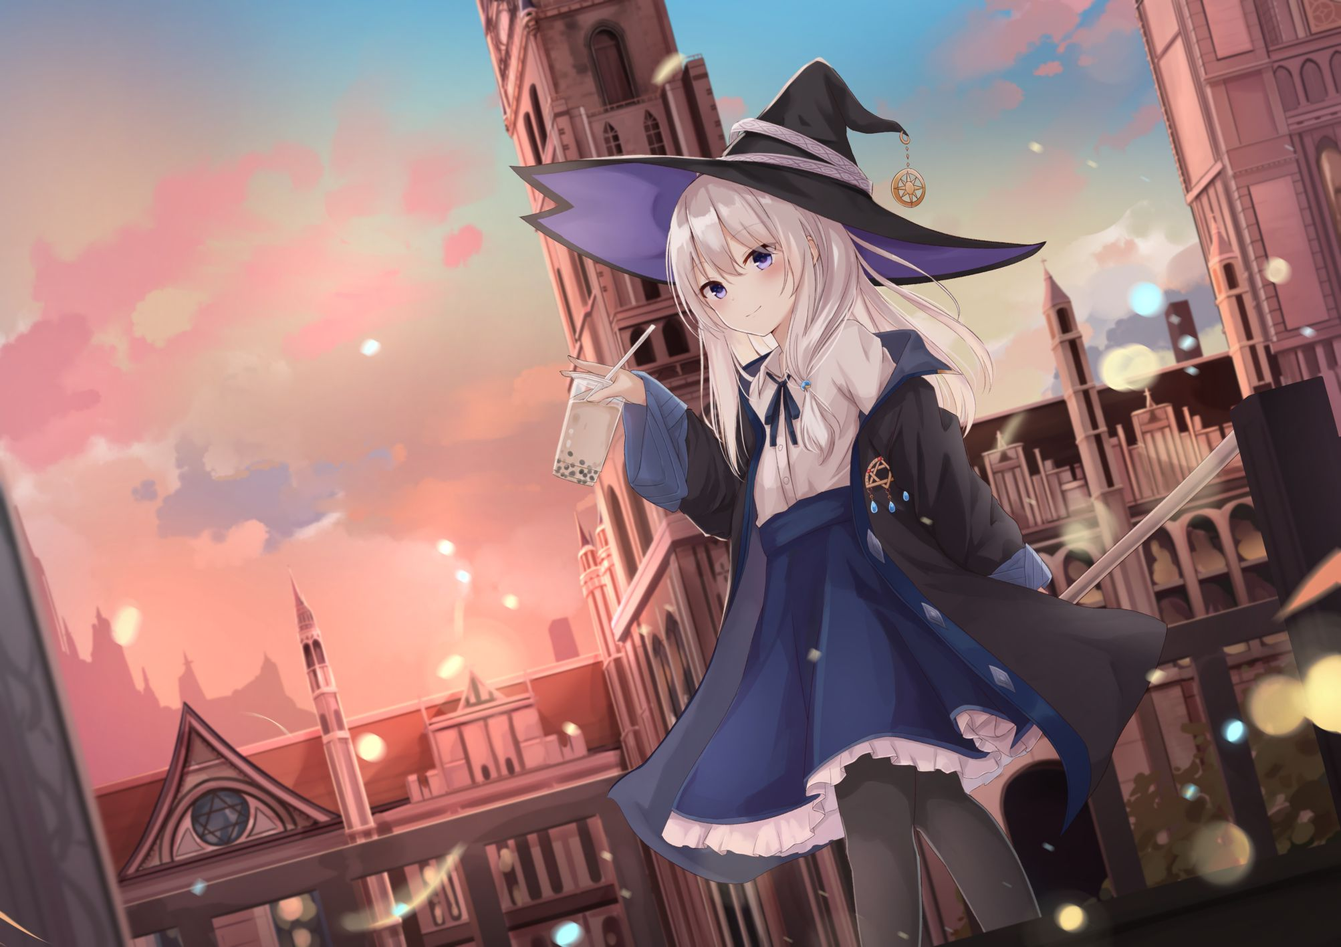
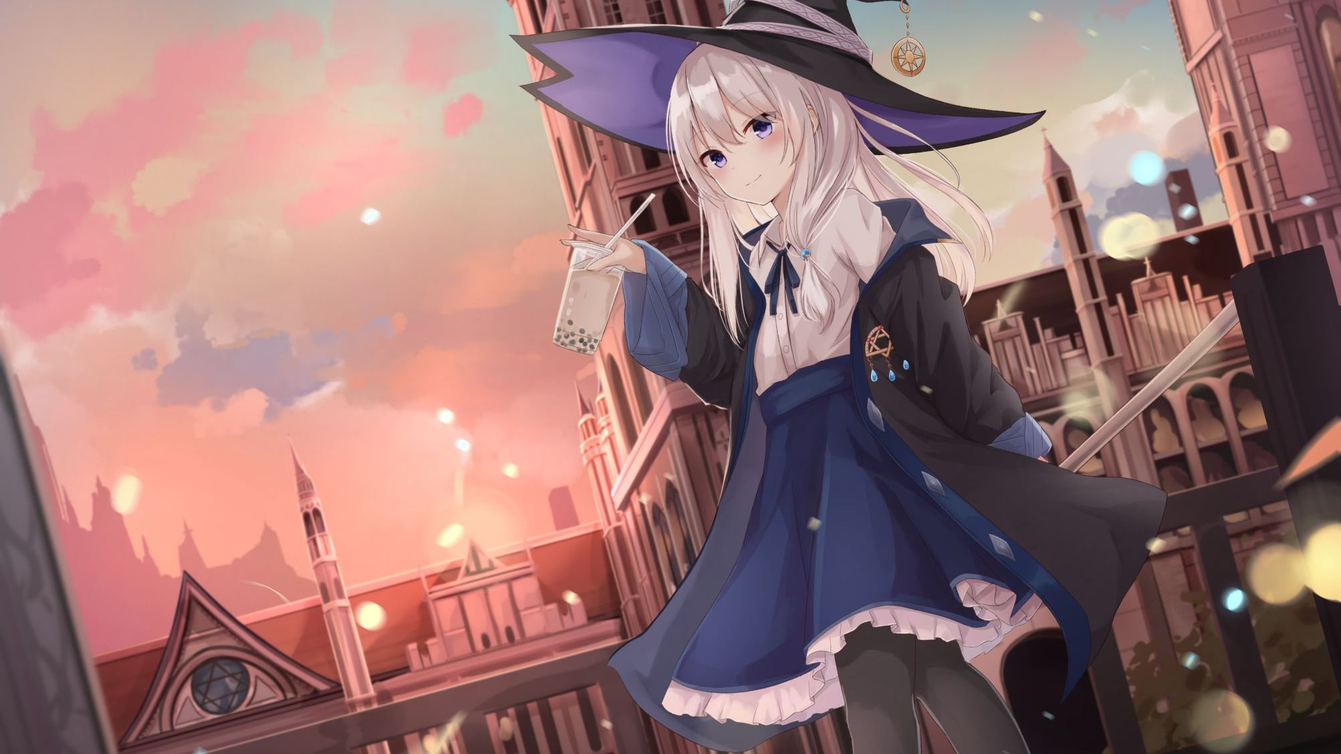
Site updated: 2021-08-10 15:26:23

diff --git a/2021/08/10/Hi/index.html b/2021/08/10/Hi/index.html
@@ -10,7 +10,7 @@
     <meta name="apple-mobile-web-app-status-bar-style" content="black-translucent">
     <meta name="google" content="notranslate" />
     <meta name="keywords" content="Fechin,"> 
-    <meta name="description" content="0.欢迎！欢迎来到Caviar的小窝～1.关于我1.1 工作还是个学生的说……会写点代码，会搞点编曲，会画点画1.2 平时都做些什么？上课(´･ω･`)1.3  坐标？南京 所以最近都出不了门鸭( ,"> 
+    <meta name="description" content="0.欢迎！欢迎来到Caviar的小站～1.关于我1.1 工作还是个学生的说……会写点代码，会搞点编曲，会画点画1.2 平时都做些什么？上课(´･ω･`)1.3  坐标？南京 所以最近都出不了门鸭( ,"> 
     <meta name="author" content="Caviar Iris"> 
     <link rel="alternative" href="atom.xml" title="Caviar&#39;s blog" type="application/atom+xml"> 
     <link rel="icon" href="/img/favicon.png"> 
@@ -54,7 +54,7 @@
 
         </div>
         <div class="content markdown">
-            <h1 id="0-欢迎！"><a href="#0-欢迎！" class="headerlink" title="0.欢迎！"></a>0.欢迎！</h1><h2 id="欢迎来到Caviar的小窝～"><a href="#欢迎来到Caviar的小窝～" class="headerlink" title="欢迎来到Caviar的小窝～"></a>欢迎来到Caviar的小窝～</h2><h1 id="1-关于我"><a href="#1-关于我" class="headerlink" title="1.关于我"></a>1.关于我</h1><h2 id="1-1-工作"><a href="#1-1-工作" class="headerlink" title="1.1 工作"></a>1.1 工作</h2><h3 id="还是个学生的说……会写点代码，会搞点编曲，会画点画"><a href="#还是个学生的说……会写点代码，会搞点编曲，会画点画" class="headerlink" title="还是个学生的说……会写点代码，会搞点编曲，会画点画"></a>还是个学生的说……会写点代码，会搞点编曲，会画点画</h3><h2 id="1-2-平时都做些什么？"><a href="#1-2-平时都做些什么？" class="headerlink" title="1.2 平时都做些什么？"></a>1.2 平时都做些什么？</h2><h3 id="上课-´･ω･"><a href="#上课-´･ω･" class="headerlink" title="上课(´･ω･`)"></a>上课(´･ω･`)</h3><h2 id="1-3-坐标？"><a href="#1-3-坐标？" class="headerlink" title="1.3  坐标？"></a>1.3  坐标？</h2><h3 id="南京-所以最近都出不了门鸭-´▽｀"><a href="#南京-所以最近都出不了门鸭-´▽｀" class="headerlink" title="南京 所以最近都出不了门鸭( ´▽｀)"></a>南京 所以最近都出不了门鸭( ´▽｀)</h3><h1 id="2-关于博客"><a href="#2-关于博客" class="headerlink" title="2.关于博客"></a>2.关于博客</h1><h2 id="2-1-都写些什么？"><a href="#2-1-都写些什么？" class="headerlink" title="2.1 都写些什么？"></a>2.1 都写些什么？</h2><h3 id="大概是笔记、算法、编曲之类的东西……哦对还有游戏-≧ω≦"><a href="#大概是笔记、算法、编曲之类的东西……哦对还有游戏-≧ω≦" class="headerlink" title="大概是笔记、算法、编曲之类的东西……哦对还有游戏(*≧ω≦)"></a>大概是笔记、算法、编曲之类的东西……哦对还有游戏(*≧ω≦)</h3><h2 id="2-2-这个博客是怎么搭起来的？"><a href="#2-2-这个博客是怎么搭起来的？" class="headerlink" title="2.2 这个博客是怎么搭起来的？"></a>2.2 这个博客是怎么搭起来的？</h2><h3 id="这个博客基于Github-Pages服务搭建，使用了Hexo核心，外面喷了一层diaspora的漆"><a href="#这个博客基于Github-Pages服务搭建，使用了Hexo核心，外面喷了一层diaspora的漆" class="headerlink" title="这个博客基于Github Pages服务搭建，使用了Hexo核心，外面喷了一层diaspora的漆"></a>这个博客基于Github Pages服务搭建，使用了Hexo核心，外面喷了一层diaspora的漆</h3><h3 id="具体过程会单独写一篇文章"><a href="#具体过程会单独写一篇文章" class="headerlink" title="具体过程会单独写一篇文章"></a>具体过程会单独写一篇文章</h3><h2 id="2-3-这个博客是什么样的性质？"><a href="#2-3-这个博客是什么样的性质？" class="headerlink" title="2.3 这个博客是什么样的性质？"></a>2.3 这个博客是什么样的性质？</h2><h3 id="主要是工具性的-偶尔也写一些别的乱七八糟的"><a href="#主要是工具性的-偶尔也写一些别的乱七八糟的" class="headerlink" title="主要是工具性的 偶尔也写一些别的乱七八糟的"></a>主要是工具性的 偶尔也写一些别的乱七八糟的</h3><h2 id="2-4-会有其他语言的版本吗？"><a href="#2-4-会有其他语言的版本吗？" class="headerlink" title="2.4 会有其他语言的版本吗？"></a>2.4 会有其他语言的版本吗？</h2><h3 id="或许会有带英语或者日语翻译的文章……"><a href="#或许会有带英语或者日语翻译的文章……" class="headerlink" title="或许会有带英语或者日语翻译的文章……"></a>或许会有带英语或者日语翻译的文章……</h3><h1 id="3-总之…"><a href="#3-总之…" class="headerlink" title="3.总之…"></a>3.总之…</h1><h2 id="欢迎！"><a href="#欢迎！" class="headerlink" title="欢迎！"></a>欢迎！</h2><h4 id="以上。"><a href="#以上。" class="headerlink" title="以上。"></a>以上。</h4><h4 id="Caviar-于-2021年8月10日"><a href="#Caviar-于-2021年8月10日" class="headerlink" title="Caviar 于 2021年8月10日"></a>Caviar 于 2021年8月10日</h4>
+            <h1 id="0-欢迎！"><a href="#0-欢迎！" class="headerlink" title="0.欢迎！"></a>0.欢迎！</h1><h2 id="欢迎来到Caviar的小站～"><a href="#欢迎来到Caviar的小站～" class="headerlink" title="欢迎来到Caviar的小站～"></a>欢迎来到Caviar的小站～</h2><h1 id="1-关于我"><a href="#1-关于我" class="headerlink" title="1.关于我"></a>1.关于我</h1><h2 id="1-1-工作"><a href="#1-1-工作" class="headerlink" title="1.1 工作"></a>1.1 工作</h2><h3 id="还是个学生的说……会写点代码，会搞点编曲，会画点画"><a href="#还是个学生的说……会写点代码，会搞点编曲，会画点画" class="headerlink" title="还是个学生的说……会写点代码，会搞点编曲，会画点画"></a>还是个学生的说……会写点代码，会搞点编曲，会画点画</h3><h2 id="1-2-平时都做些什么？"><a href="#1-2-平时都做些什么？" class="headerlink" title="1.2 平时都做些什么？"></a>1.2 平时都做些什么？</h2><h3 id="上课-´･ω･"><a href="#上课-´･ω･" class="headerlink" title="上课(´･ω･`)"></a>上课(´･ω･`)</h3><h2 id="1-3-坐标？"><a href="#1-3-坐标？" class="headerlink" title="1.3  坐标？"></a>1.3  坐标？</h2><h3 id="南京-所以最近都出不了门鸭-´▽｀"><a href="#南京-所以最近都出不了门鸭-´▽｀" class="headerlink" title="南京 所以最近都出不了门鸭( ´▽｀)"></a>南京 所以最近都出不了门鸭( ´▽｀)</h3><h1 id="2-关于博客"><a href="#2-关于博客" class="headerlink" title="2.关于博客"></a>2.关于博客</h1><h2 id="2-1-都写些什么？"><a href="#2-1-都写些什么？" class="headerlink" title="2.1 都写些什么？"></a>2.1 都写些什么？</h2><h3 id="大概是笔记、算法、编曲之类的东西……哦对还有游戏-≧ω≦"><a href="#大概是笔记、算法、编曲之类的东西……哦对还有游戏-≧ω≦" class="headerlink" title="大概是笔记、算法、编曲之类的东西……哦对还有游戏(*≧ω≦)"></a>大概是笔记、算法、编曲之类的东西……哦对还有游戏(*≧ω≦)</h3><h2 id="2-2-这个博客是怎么搭起来的？"><a href="#2-2-这个博客是怎么搭起来的？" class="headerlink" title="2.2 这个博客是怎么搭起来的？"></a>2.2 这个博客是怎么搭起来的？</h2><h3 id="这个博客基于Github-Pages服务搭建，使用了Hexo核心，外面喷了一层diaspora的漆"><a href="#这个博客基于Github-Pages服务搭建，使用了Hexo核心，外面喷了一层diaspora的漆" class="headerlink" title="这个博客基于Github Pages服务搭建，使用了Hexo核心，外面喷了一层diaspora的漆"></a>这个博客基于Github Pages服务搭建，使用了Hexo核心，外面喷了一层diaspora的漆</h3><h3 id="具体过程会单独写一篇文章"><a href="#具体过程会单独写一篇文章" class="headerlink" title="具体过程会单独写一篇文章"></a>具体过程会单独写一篇文章</h3><h2 id="2-3-这个博客是什么样的性质？"><a href="#2-3-这个博客是什么样的性质？" class="headerlink" title="2.3 这个博客是什么样的性质？"></a>2.3 这个博客是什么样的性质？</h2><h3 id="主要是工具性的-偶尔也写一些别的乱七八糟的"><a href="#主要是工具性的-偶尔也写一些别的乱七八糟的" class="headerlink" title="主要是工具性的 偶尔也写一些别的乱七八糟的"></a>主要是工具性的 偶尔也写一些别的乱七八糟的</h3><h2 id="2-4-会有其他语言的版本吗？"><a href="#2-4-会有其他语言的版本吗？" class="headerlink" title="2.4 会有其他语言的版本吗？"></a>2.4 会有其他语言的版本吗？</h2><h3 id="或许会有带英语或者日语翻译的文章……"><a href="#或许会有带英语或者日语翻译的文章……" class="headerlink" title="或许会有带英语或者日语翻译的文章……"></a>或许会有带英语或者日语翻译的文章……</h3><h1 id="3-总之…"><a href="#3-总之…" class="headerlink" title="3.总之…"></a>3.总之…</h1><h2 id="欢迎！"><a href="#欢迎！" class="headerlink" title="欢迎！"></a>欢迎！</h2><h4 id="以上。"><a href="#以上。" class="headerlink" title="以上。"></a>以上。</h4><h4 id="Caviar-于-2021年8月10日"><a href="#Caviar-于-2021年8月10日" class="headerlink" title="Caviar 于 2021年8月10日"></a>Caviar 于 2021年8月10日</h4>
             <!--[if lt IE 9]><script>document.createElement('audio');</script><![endif]-->
             <audio id="audio" loop="1" preload="auto" controls="controls" data-autoplay="false">
                 <source type="audio/mpeg" src="">
@@ -81,7 +81,7 @@
     </div>
     
         <div class='side'>
-			<ol class="toc"><li class="toc-item toc-level-1"><a class="toc-link" href="#0-%E6%AC%A2%E8%BF%8E%EF%BC%81"><span class="toc-number">1.</span> <span class="toc-text">0.欢迎！</span></a><ol class="toc-child"><li class="toc-item toc-level-2"><a class="toc-link" href="#%E6%AC%A2%E8%BF%8E%E6%9D%A5%E5%88%B0Caviar%E7%9A%84%E5%B0%8F%E7%AA%9D%EF%BD%9E"><span class="toc-number">1.1.</span> <span class="toc-text">欢迎来到Caviar的小窝～</span></a></li></ol></li><li class="toc-item toc-level-1"><a class="toc-link" href="#1-%E5%85%B3%E4%BA%8E%E6%88%91"><span class="toc-number">2.</span> <span class="toc-text">1.关于我</span></a><ol class="toc-child"><li class="toc-item toc-level-2"><a class="toc-link" href="#1-1-%E5%B7%A5%E4%BD%9C"><span class="toc-number">2.1.</span> <span class="toc-text">1.1 工作</span></a><ol class="toc-child"><li class="toc-item toc-level-3"><a class="toc-link" href="#%E8%BF%98%E6%98%AF%E4%B8%AA%E5%AD%A6%E7%94%9F%E7%9A%84%E8%AF%B4%E2%80%A6%E2%80%A6%E4%BC%9A%E5%86%99%E7%82%B9%E4%BB%A3%E7%A0%81%EF%BC%8C%E4%BC%9A%E6%90%9E%E7%82%B9%E7%BC%96%E6%9B%B2%EF%BC%8C%E4%BC%9A%E7%94%BB%E7%82%B9%E7%94%BB"><span class="toc-number">2.1.1.</span> <span class="toc-text">还是个学生的说……会写点代码，会搞点编曲，会画点画</span></a></li></ol></li><li class="toc-item toc-level-2"><a class="toc-link" href="#1-2-%E5%B9%B3%E6%97%B6%E9%83%BD%E5%81%9A%E4%BA%9B%E4%BB%80%E4%B9%88%EF%BC%9F"><span class="toc-number">2.2.</span> <span class="toc-text">1.2 平时都做些什么？</span></a><ol class="toc-child"><li class="toc-item toc-level-3"><a class="toc-link" href="#%E4%B8%8A%E8%AF%BE-%C2%B4%EF%BD%A5%CF%89%EF%BD%A5"><span class="toc-number">2.2.1.</span> <span class="toc-text">上课(´･ω･&#96;)</span></a></li></ol></li><li class="toc-item toc-level-2"><a class="toc-link" href="#1-3-%E5%9D%90%E6%A0%87%EF%BC%9F"><span class="toc-number">2.3.</span> <span class="toc-text">1.3  坐标？</span></a><ol class="toc-child"><li class="toc-item toc-level-3"><a class="toc-link" href="#%E5%8D%97%E4%BA%AC-%E6%89%80%E4%BB%A5%E6%9C%80%E8%BF%91%E9%83%BD%E5%87%BA%E4%B8%8D%E4%BA%86%E9%97%A8%E9%B8%AD-%C2%B4%E2%96%BD%EF%BD%80"><span class="toc-number">2.3.1.</span> <span class="toc-text">南京 所以最近都出不了门鸭( ´▽｀)</span></a></li></ol></li></ol></li><li class="toc-item toc-level-1"><a class="toc-link" href="#2-%E5%85%B3%E4%BA%8E%E5%8D%9A%E5%AE%A2"><span class="toc-number">3.</span> <span class="toc-text">2.关于博客</span></a><ol class="toc-child"><li class="toc-item toc-level-2"><a class="toc-link" href="#2-1-%E9%83%BD%E5%86%99%E4%BA%9B%E4%BB%80%E4%B9%88%EF%BC%9F"><span class="toc-number">3.1.</span> <span class="toc-text">2.1 都写些什么？</span></a><ol class="toc-child"><li class="toc-item toc-level-3"><a class="toc-link" href="#%E5%A4%A7%E6%A6%82%E6%98%AF%E7%AC%94%E8%AE%B0%E3%80%81%E7%AE%97%E6%B3%95%E3%80%81%E7%BC%96%E6%9B%B2%E4%B9%8B%E7%B1%BB%E7%9A%84%E4%B8%9C%E8%A5%BF%E2%80%A6%E2%80%A6%E5%93%A6%E5%AF%B9%E8%BF%98%E6%9C%89%E6%B8%B8%E6%88%8F-%E2%89%A7%CF%89%E2%89%A6"><span class="toc-number">3.1.1.</span> <span class="toc-text">大概是笔记、算法、编曲之类的东西……哦对还有游戏(*≧ω≦)</span></a></li></ol></li><li class="toc-item toc-level-2"><a class="toc-link" href="#2-2-%E8%BF%99%E4%B8%AA%E5%8D%9A%E5%AE%A2%E6%98%AF%E6%80%8E%E4%B9%88%E6%90%AD%E8%B5%B7%E6%9D%A5%E7%9A%84%EF%BC%9F"><span class="toc-number">3.2.</span> <span class="toc-text">2.2 这个博客是怎么搭起来的？</span></a><ol class="toc-child"><li class="toc-item toc-level-3"><a class="toc-link" href="#%E8%BF%99%E4%B8%AA%E5%8D%9A%E5%AE%A2%E5%9F%BA%E4%BA%8EGithub-Pages%E6%9C%8D%E5%8A%A1%E6%90%AD%E5%BB%BA%EF%BC%8C%E4%BD%BF%E7%94%A8%E4%BA%86Hexo%E6%A0%B8%E5%BF%83%EF%BC%8C%E5%A4%96%E9%9D%A2%E5%96%B7%E4%BA%86%E4%B8%80%E5%B1%82diaspora%E7%9A%84%E6%BC%86"><span class="toc-number">3.2.1.</span> <span class="toc-text">这个博客基于Github Pages服务搭建，使用了Hexo核心，外面喷了一层diaspora的漆</span></a></li><li class="toc-item toc-level-3"><a class="toc-link" href="#%E5%85%B7%E4%BD%93%E8%BF%87%E7%A8%8B%E4%BC%9A%E5%8D%95%E7%8B%AC%E5%86%99%E4%B8%80%E7%AF%87%E6%96%87%E7%AB%A0"><span class="toc-number">3.2.2.</span> <span class="toc-text">具体过程会单独写一篇文章</span></a></li></ol></li><li class="toc-item toc-level-2"><a class="toc-link" href="#2-3-%E8%BF%99%E4%B8%AA%E5%8D%9A%E5%AE%A2%E6%98%AF%E4%BB%80%E4%B9%88%E6%A0%B7%E7%9A%84%E6%80%A7%E8%B4%A8%EF%BC%9F"><span class="toc-number">3.3.</span> <span class="toc-text">2.3 这个博客是什么样的性质？</span></a><ol class="toc-child"><li class="toc-item toc-level-3"><a class="toc-link" href="#%E4%B8%BB%E8%A6%81%E6%98%AF%E5%B7%A5%E5%85%B7%E6%80%A7%E7%9A%84-%E5%81%B6%E5%B0%94%E4%B9%9F%E5%86%99%E4%B8%80%E4%BA%9B%E5%88%AB%E7%9A%84%E4%B9%B1%E4%B8%83%E5%85%AB%E7%B3%9F%E7%9A%84"><span class="toc-number">3.3.1.</span> <span class="toc-text">主要是工具性的 偶尔也写一些别的乱七八糟的</span></a></li></ol></li><li class="toc-item toc-level-2"><a class="toc-link" href="#2-4-%E4%BC%9A%E6%9C%89%E5%85%B6%E4%BB%96%E8%AF%AD%E8%A8%80%E7%9A%84%E7%89%88%E6%9C%AC%E5%90%97%EF%BC%9F"><span class="toc-number">3.4.</span> <span class="toc-text">2.4 会有其他语言的版本吗？</span></a><ol class="toc-child"><li class="toc-item toc-level-3"><a class="toc-link" href="#%E6%88%96%E8%AE%B8%E4%BC%9A%E6%9C%89%E5%B8%A6%E8%8B%B1%E8%AF%AD%E6%88%96%E8%80%85%E6%97%A5%E8%AF%AD%E7%BF%BB%E8%AF%91%E7%9A%84%E6%96%87%E7%AB%A0%E2%80%A6%E2%80%A6"><span class="toc-number">3.4.1.</span> <span class="toc-text">或许会有带英语或者日语翻译的文章……</span></a></li></ol></li></ol></li><li class="toc-item toc-level-1"><a class="toc-link" href="#3-%E6%80%BB%E4%B9%8B%E2%80%A6"><span class="toc-number">4.</span> <span class="toc-text">3.总之…</span></a><ol class="toc-child"><li class="toc-item toc-level-2"><a class="toc-link" href="#%E6%AC%A2%E8%BF%8E%EF%BC%81"><span class="toc-number">4.1.</span> <span class="toc-text">欢迎！</span></a><ol class="toc-child"><li class="toc-item toc-level-4"><a class="toc-link" href="#%E4%BB%A5%E4%B8%8A%E3%80%82"><span class="toc-number">4.1.0.1.</span> <span class="toc-text">以上。</span></a></li><li class="toc-item toc-level-4"><a class="toc-link" href="#Caviar-%E4%BA%8E-2021%E5%B9%B48%E6%9C%8810%E6%97%A5"><span class="toc-number">4.1.0.2.</span> <span class="toc-text">Caviar 于 2021年8月10日</span></a></li></ol></li></ol></li></ol></li></ol>	
+			<ol class="toc"><li class="toc-item toc-level-1"><a class="toc-link" href="#0-%E6%AC%A2%E8%BF%8E%EF%BC%81"><span class="toc-number">1.</span> <span class="toc-text">0.欢迎！</span></a><ol class="toc-child"><li class="toc-item toc-level-2"><a class="toc-link" href="#%E6%AC%A2%E8%BF%8E%E6%9D%A5%E5%88%B0Caviar%E7%9A%84%E5%B0%8F%E7%AB%99%EF%BD%9E"><span class="toc-number">1.1.</span> <span class="toc-text">欢迎来到Caviar的小站～</span></a></li></ol></li><li class="toc-item toc-level-1"><a class="toc-link" href="#1-%E5%85%B3%E4%BA%8E%E6%88%91"><span class="toc-number">2.</span> <span class="toc-text">1.关于我</span></a><ol class="toc-child"><li class="toc-item toc-level-2"><a class="toc-link" href="#1-1-%E5%B7%A5%E4%BD%9C"><span class="toc-number">2.1.</span> <span class="toc-text">1.1 工作</span></a><ol class="toc-child"><li class="toc-item toc-level-3"><a class="toc-link" href="#%E8%BF%98%E6%98%AF%E4%B8%AA%E5%AD%A6%E7%94%9F%E7%9A%84%E8%AF%B4%E2%80%A6%E2%80%A6%E4%BC%9A%E5%86%99%E7%82%B9%E4%BB%A3%E7%A0%81%EF%BC%8C%E4%BC%9A%E6%90%9E%E7%82%B9%E7%BC%96%E6%9B%B2%EF%BC%8C%E4%BC%9A%E7%94%BB%E7%82%B9%E7%94%BB"><span class="toc-number">2.1.1.</span> <span class="toc-text">还是个学生的说……会写点代码，会搞点编曲，会画点画</span></a></li></ol></li><li class="toc-item toc-level-2"><a class="toc-link" href="#1-2-%E5%B9%B3%E6%97%B6%E9%83%BD%E5%81%9A%E4%BA%9B%E4%BB%80%E4%B9%88%EF%BC%9F"><span class="toc-number">2.2.</span> <span class="toc-text">1.2 平时都做些什么？</span></a><ol class="toc-child"><li class="toc-item toc-level-3"><a class="toc-link" href="#%E4%B8%8A%E8%AF%BE-%C2%B4%EF%BD%A5%CF%89%EF%BD%A5"><span class="toc-number">2.2.1.</span> <span class="toc-text">上课(´･ω･&#96;)</span></a></li></ol></li><li class="toc-item toc-level-2"><a class="toc-link" href="#1-3-%E5%9D%90%E6%A0%87%EF%BC%9F"><span class="toc-number">2.3.</span> <span class="toc-text">1.3  坐标？</span></a><ol class="toc-child"><li class="toc-item toc-level-3"><a class="toc-link" href="#%E5%8D%97%E4%BA%AC-%E6%89%80%E4%BB%A5%E6%9C%80%E8%BF%91%E9%83%BD%E5%87%BA%E4%B8%8D%E4%BA%86%E9%97%A8%E9%B8%AD-%C2%B4%E2%96%BD%EF%BD%80"><span class="toc-number">2.3.1.</span> <span class="toc-text">南京 所以最近都出不了门鸭( ´▽｀)</span></a></li></ol></li></ol></li><li class="toc-item toc-level-1"><a class="toc-link" href="#2-%E5%85%B3%E4%BA%8E%E5%8D%9A%E5%AE%A2"><span class="toc-number">3.</span> <span class="toc-text">2.关于博客</span></a><ol class="toc-child"><li class="toc-item toc-level-2"><a class="toc-link" href="#2-1-%E9%83%BD%E5%86%99%E4%BA%9B%E4%BB%80%E4%B9%88%EF%BC%9F"><span class="toc-number">3.1.</span> <span class="toc-text">2.1 都写些什么？</span></a><ol class="toc-child"><li class="toc-item toc-level-3"><a class="toc-link" href="#%E5%A4%A7%E6%A6%82%E6%98%AF%E7%AC%94%E8%AE%B0%E3%80%81%E7%AE%97%E6%B3%95%E3%80%81%E7%BC%96%E6%9B%B2%E4%B9%8B%E7%B1%BB%E7%9A%84%E4%B8%9C%E8%A5%BF%E2%80%A6%E2%80%A6%E5%93%A6%E5%AF%B9%E8%BF%98%E6%9C%89%E6%B8%B8%E6%88%8F-%E2%89%A7%CF%89%E2%89%A6"><span class="toc-number">3.1.1.</span> <span class="toc-text">大概是笔记、算法、编曲之类的东西……哦对还有游戏(*≧ω≦)</span></a></li></ol></li><li class="toc-item toc-level-2"><a class="toc-link" href="#2-2-%E8%BF%99%E4%B8%AA%E5%8D%9A%E5%AE%A2%E6%98%AF%E6%80%8E%E4%B9%88%E6%90%AD%E8%B5%B7%E6%9D%A5%E7%9A%84%EF%BC%9F"><span class="toc-number">3.2.</span> <span class="toc-text">2.2 这个博客是怎么搭起来的？</span></a><ol class="toc-child"><li class="toc-item toc-level-3"><a class="toc-link" href="#%E8%BF%99%E4%B8%AA%E5%8D%9A%E5%AE%A2%E5%9F%BA%E4%BA%8EGithub-Pages%E6%9C%8D%E5%8A%A1%E6%90%AD%E5%BB%BA%EF%BC%8C%E4%BD%BF%E7%94%A8%E4%BA%86Hexo%E6%A0%B8%E5%BF%83%EF%BC%8C%E5%A4%96%E9%9D%A2%E5%96%B7%E4%BA%86%E4%B8%80%E5%B1%82diaspora%E7%9A%84%E6%BC%86"><span class="toc-number">3.2.1.</span> <span class="toc-text">这个博客基于Github Pages服务搭建，使用了Hexo核心，外面喷了一层diaspora的漆</span></a></li><li class="toc-item toc-level-3"><a class="toc-link" href="#%E5%85%B7%E4%BD%93%E8%BF%87%E7%A8%8B%E4%BC%9A%E5%8D%95%E7%8B%AC%E5%86%99%E4%B8%80%E7%AF%87%E6%96%87%E7%AB%A0"><span class="toc-number">3.2.2.</span> <span class="toc-text">具体过程会单独写一篇文章</span></a></li></ol></li><li class="toc-item toc-level-2"><a class="toc-link" href="#2-3-%E8%BF%99%E4%B8%AA%E5%8D%9A%E5%AE%A2%E6%98%AF%E4%BB%80%E4%B9%88%E6%A0%B7%E7%9A%84%E6%80%A7%E8%B4%A8%EF%BC%9F"><span class="toc-number">3.3.</span> <span class="toc-text">2.3 这个博客是什么样的性质？</span></a><ol class="toc-child"><li class="toc-item toc-level-3"><a class="toc-link" href="#%E4%B8%BB%E8%A6%81%E6%98%AF%E5%B7%A5%E5%85%B7%E6%80%A7%E7%9A%84-%E5%81%B6%E5%B0%94%E4%B9%9F%E5%86%99%E4%B8%80%E4%BA%9B%E5%88%AB%E7%9A%84%E4%B9%B1%E4%B8%83%E5%85%AB%E7%B3%9F%E7%9A%84"><span class="toc-number">3.3.1.</span> <span class="toc-text">主要是工具性的 偶尔也写一些别的乱七八糟的</span></a></li></ol></li><li class="toc-item toc-level-2"><a class="toc-link" href="#2-4-%E4%BC%9A%E6%9C%89%E5%85%B6%E4%BB%96%E8%AF%AD%E8%A8%80%E7%9A%84%E7%89%88%E6%9C%AC%E5%90%97%EF%BC%9F"><span class="toc-number">3.4.</span> <span class="toc-text">2.4 会有其他语言的版本吗？</span></a><ol class="toc-child"><li class="toc-item toc-level-3"><a class="toc-link" href="#%E6%88%96%E8%AE%B8%E4%BC%9A%E6%9C%89%E5%B8%A6%E8%8B%B1%E8%AF%AD%E6%88%96%E8%80%85%E6%97%A5%E8%AF%AD%E7%BF%BB%E8%AF%91%E7%9A%84%E6%96%87%E7%AB%A0%E2%80%A6%E2%80%A6"><span class="toc-number">3.4.1.</span> <span class="toc-text">或许会有带英语或者日语翻译的文章……</span></a></li></ol></li></ol></li><li class="toc-item toc-level-1"><a class="toc-link" href="#3-%E6%80%BB%E4%B9%8B%E2%80%A6"><span class="toc-number">4.</span> <span class="toc-text">3.总之…</span></a><ol class="toc-child"><li class="toc-item toc-level-2"><a class="toc-link" href="#%E6%AC%A2%E8%BF%8E%EF%BC%81"><span class="toc-number">4.1.</span> <span class="toc-text">欢迎！</span></a><ol class="toc-child"><li class="toc-item toc-level-4"><a class="toc-link" href="#%E4%BB%A5%E4%B8%8A%E3%80%82"><span class="toc-number">4.1.0.1.</span> <span class="toc-text">以上。</span></a></li><li class="toc-item toc-level-4"><a class="toc-link" href="#Caviar-%E4%BA%8E-2021%E5%B9%B48%E6%9C%8810%E6%97%A5"><span class="toc-number">4.1.0.2.</span> <span class="toc-text">Caviar 于 2021年8月10日</span></a></li></ol></li></ol></li></ol></li></ol>	
         </div>
     
 </div>

diff --git a/categories/杂谈/index.html b/categories/杂谈/index.html
@@ -85,7 +85,7 @@
 <div id="screen">
     <div id="mark">
         <div class="layer" data-depth="0.4">
-            <img src="/img/welcome-cover.jpg" id="cover" crossorigin="anonymous" width="1920" height="1080">
+            <img src="/img/cover5.jpg" id="cover" crossorigin="anonymous" width="1920" height="1080">
         </div>
     </div>
     <div id="vibrant">
@@ -107,7 +107,7 @@
     <div id="post0">
         <p>八月 10, 2021</p>
         <h2><a href="/2021/08/10/Hi/" title="Hi." class="posttitle">Hi.</a></h2>
-        <p class="summary">0.欢迎！欢迎来到Caviar的小窝～1.关于我1.1 工作还是个学生的说……会写点代码，会搞点编曲，会画点画1....</p>
+        <p class="summary">0.欢迎！欢迎来到Caviar的小站～1.关于我1.1 工作还是个学生的说……会写点代码，会搞点编曲，会画点画1....</p>
     </div>
     
 </div>

diff --git a/index.html b/index.html
@@ -85,7 +85,7 @@
 <div id="screen">
     <div id="mark">
         <div class="layer" data-depth="0.4">
-            <img src="/img/welcome-cover.jpg" id="cover" crossorigin="anonymous" width="1920" height="1080">
+            <img src="/img/cover5.jpg" id="cover" crossorigin="anonymous" width="1920" height="1080">
         </div>
     </div>
     <div id="vibrant">
@@ -107,7 +107,7 @@
     <div id="post0">
         <p>八月 10, 2021</p>
         <h2><a href="/2021/08/10/Hi/" title="Hi." class="posttitle">Hi.</a></h2>
-        <p class="summary">0.欢迎！欢迎来到Caviar的小窝～1.关于我1.1 工作还是个学生的说……会写点代码，会搞点编曲，会画点画1....</p>
+        <p class="summary">0.欢迎！欢迎来到Caviar的小站～1.关于我1.1 工作还是个学生的说……会写点代码，会搞点编曲，会画点画1....</p>
     </div>
     
 </div>

diff --git a/tags/欢迎/index.html b/tags/欢迎/index.html
@@ -85,7 +85,7 @@
 <div id="screen">
     <div id="mark">
         <div class="layer" data-depth="0.4">
-            <img src="/img/welcome-cover.jpg" id="cover" crossorigin="anonymous" width="1920" height="1080">
+            <img src="/img/cover5.jpg" id="cover" crossorigin="anonymous" width="1920" height="1080">
         </div>
     </div>
     <div id="vibrant">
@@ -107,7 +107,7 @@
     <div id="post0">
         <p>八月 10, 2021</p>
         <h2><a href="/2021/08/10/Hi/" title="Hi." class="posttitle">Hi.</a></h2>
-        <p class="summary">0.欢迎！欢迎来到Caviar的小窝～1.关于我1.1 工作还是个学生的说……会写点代码，会搞点编曲，会画点画1....</p>
+        <p class="summary">0.欢迎！欢迎来到Caviar的小站～1.关于我1.1 工作还是个学生的说……会写点代码，会搞点编曲，会画点画1....</p>
     </div>
     
 </div>
